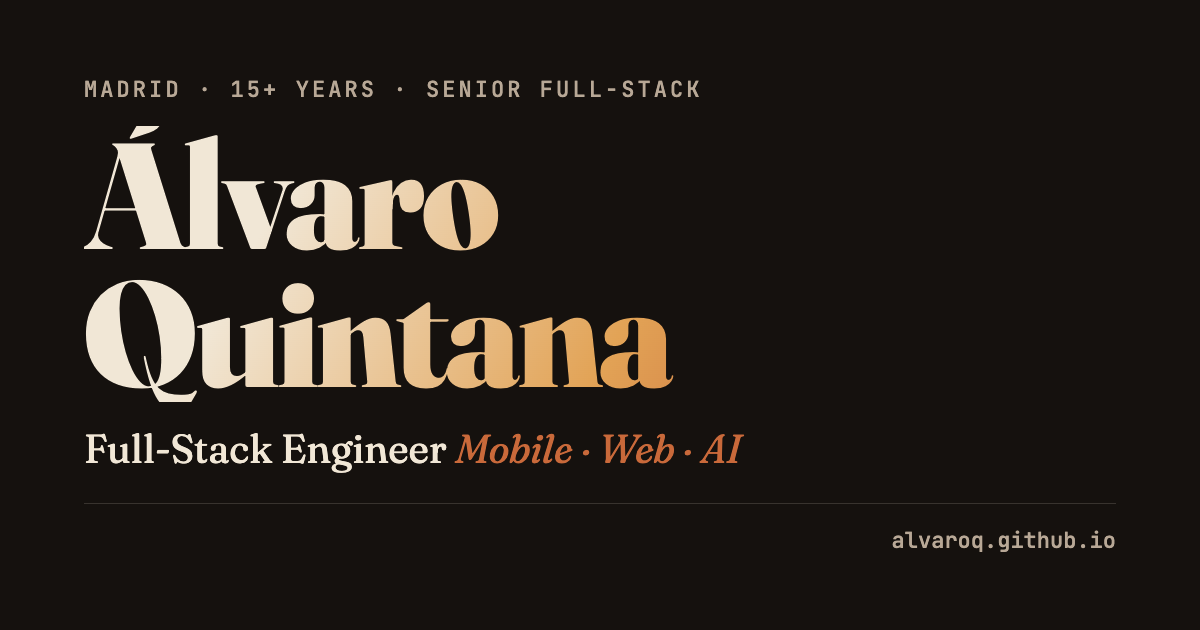
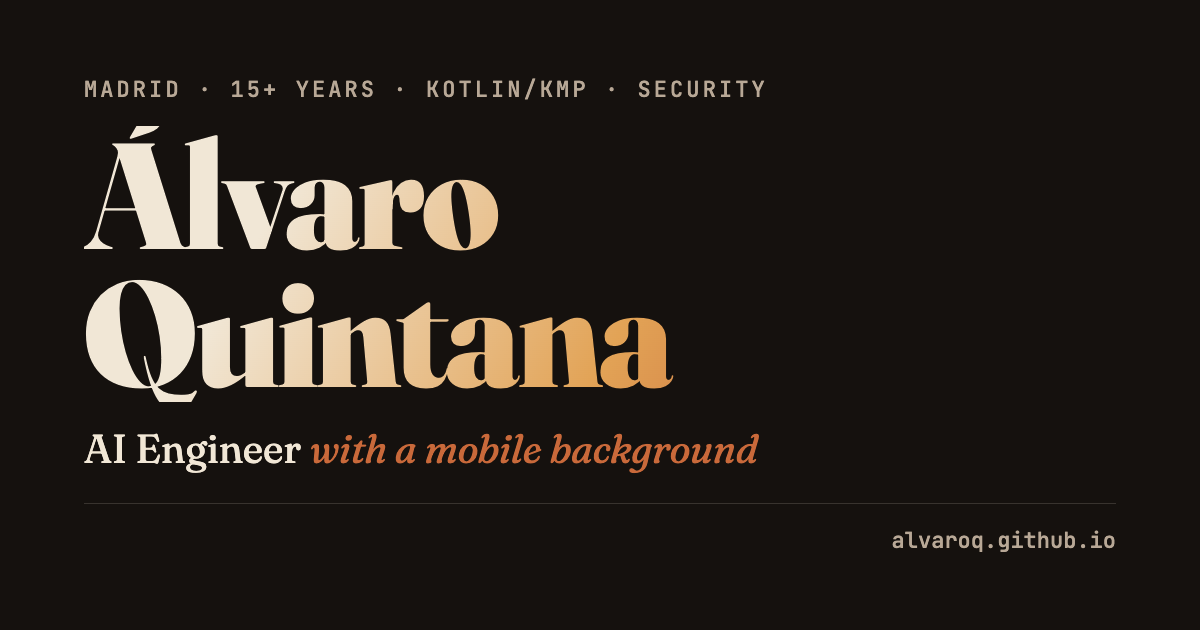
feat(brand): regenerate OG images and add the LinkedIn cover
The cover is rendered from the hero copy by the icons script into brand/,
outside public/, so it is never published.

Changed region(s): [[0.0617, 0.6635, 0.6475, 0.754], [0.3392, 0.1206, 0.555, 0.1508], [0.5858, 0.1206, 0.6475, 0.1508]]

diff --git a/CLAUDE.md b/CLAUDE.md
@@ -82,7 +82,7 @@ scripts/
 ├── csp-hash.mjs            # Hash CSP del anti-FOUC (lo usa astro.config.mjs)
 ├── prune-masters.mjs       # Integracion astro:build:done: borra masters sin referencia
 └── assets/                 # Generadores manuales (fuera del build)
-    ├── icons.mjs           # favicon.svg/.ico/32, apple-touch-icon, og-image(-en).png
+    ├── icons.mjs           # favicon.svg/.ico/32, apple-touch-icon, og-image(-en).png, brand/linkedin-banner.png
     └── relief.mjs          # Mapa de alturas de la filigrana desde el retrato
 ```
 
@@ -103,7 +103,7 @@ npm run dev       # Servidor desarrollo (localhost:4321)
 npm run build     # Build produccion (dist/)
 npm run preview   # Preview del build
 npm run verify    # astro check && astro build && node --test 'scripts/*.test.mjs' (lo mismo que CI)
-npm run assets:icons   # Regenera favicon, apple-touch-icon y las OG (Chrome del sistema, CHROME_PATH)
+npm run assets:icons   # Regenera favicon, apple-touch-icon, las OG y el banner de LinkedIn en brand/ (Chrome del sistema, CHROME_PATH)
 npm run assets:relief  # Regenera el mapa de relieve de la filigrana tras cambiar el retrato
 npx astro check   # Type checking
 ```
